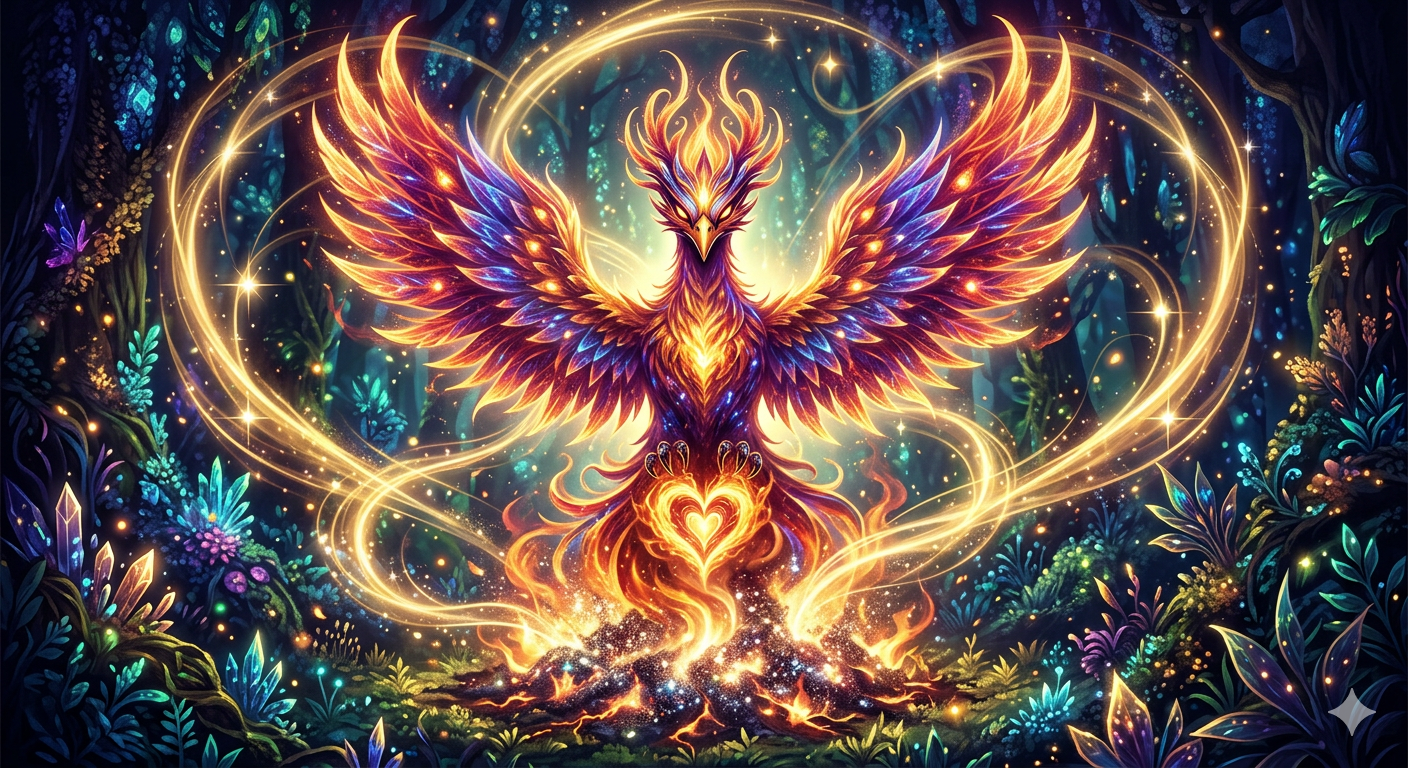
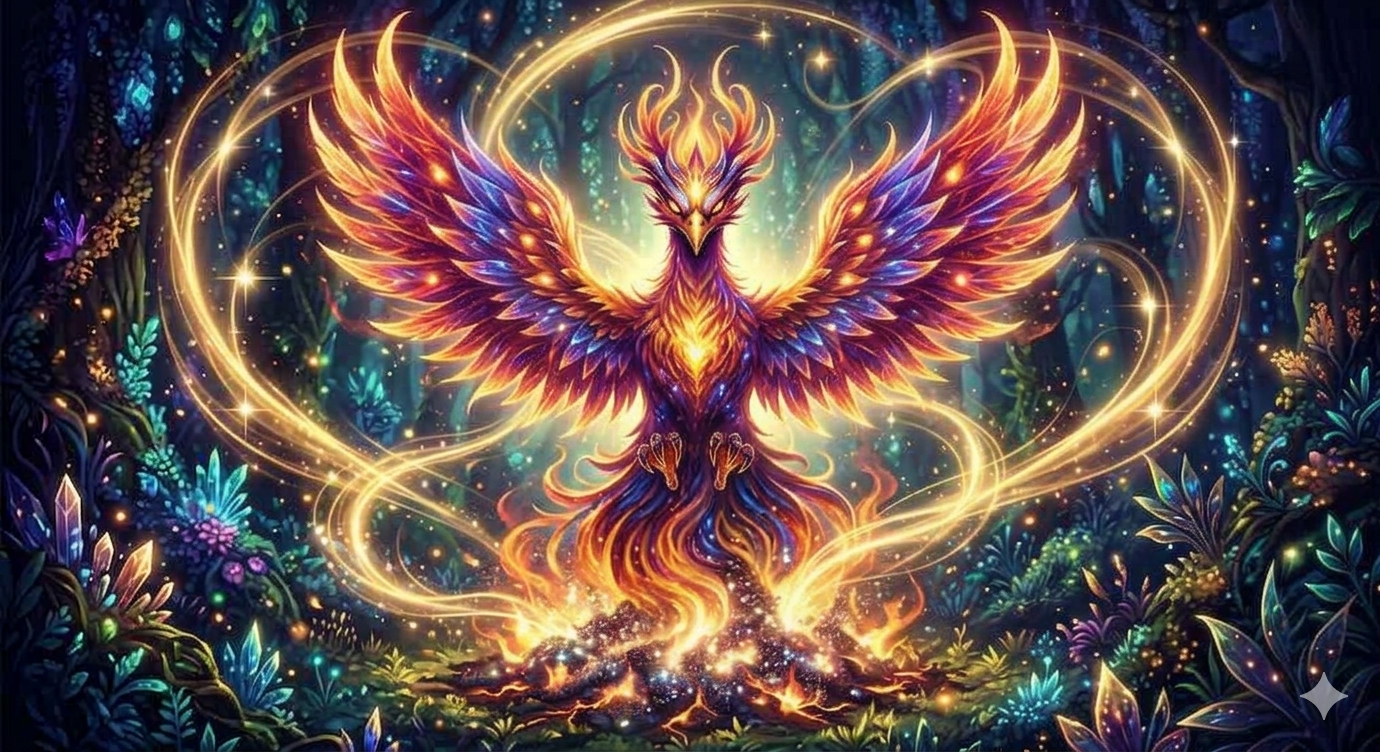
updated images and added mirror images

diff --git a/unit-1-project/src/games/KindCreatures/creaturesData.js b/unit-1-project/src/games/KindCreatures/creaturesData.js
@@ -1,9 +1,9 @@
 //import all creature images
-import unicornHappy from "../../assets/images/creatures/unicorn-happy.png";
-import dragonHappy from "../../assets/images/creatures/dragon-happy.png";
-import llamaHappy from "../../assets/images/creatures/llama-happy.png";
-import peacockHappy from "../../assets/images/creatures/peacock-happy.png";
-import phoenixExcited from "../../assets/images/creatures/phoenix-excited.png";
+import unicornMirror from "../../assets/images/creatures/unicorn-mirror.png";
+import dragonMirror from "../../assets/images/creatures/dragon-mirror.png";
+import llamaMirror from "../../assets/images/creatures/llama-mirror.png";
+import peacockMirror from "../../assets/images/creatures/peacock-mirror.png";
+import phoenixMirror from "../../assets/images/creatures/phoenix-mirror.png";
 
 //array of data for kind creatures game
 export const creaturesArray = [
@@ -11,7 +11,7 @@ export const creaturesArray = [
     id: 1,
     creature: "Unicorn",
     name: "Yardly",
-    image: unicornHappy,
+    image: unicornMirror,
     options: [
       "I love my body!",
       "I am kind!",
@@ -22,14 +22,14 @@ export const creaturesArray = [
     id: 2,
     creature: "Dragon",
     name: "Danny",
-    image: dragonHappy,
+    image: dragonMirror,
     options: ["I am enough!", "I am a good friend!", "I am amazing!"],
   },
   {
     id: 3,
     creature: "Llama",
     name: "Larry",
-    image: llamaHappy,
+    image: llamaMirror,
     options: [
       "I am good!",
       "I am brave!",
@@ -40,7 +40,7 @@ export const creaturesArray = [
     id: 4,
     creature: "Peacock",
     name: "Perry",
-    image: peacockHappy,
+    image: peacockMirror,
     options: [
       "I am beautiful!",
       "I can do hard things!",
@@ -51,7 +51,7 @@ export const creaturesArray = [
     id: 5,
     creature: "Phoenix",
     name: "Finnleigh",
-    image: phoenixExcited,
+    image: phoenixMirror,
     options: ["I am loved!", "I am capable of so much!", "I am happy!"],
   },
 ];
